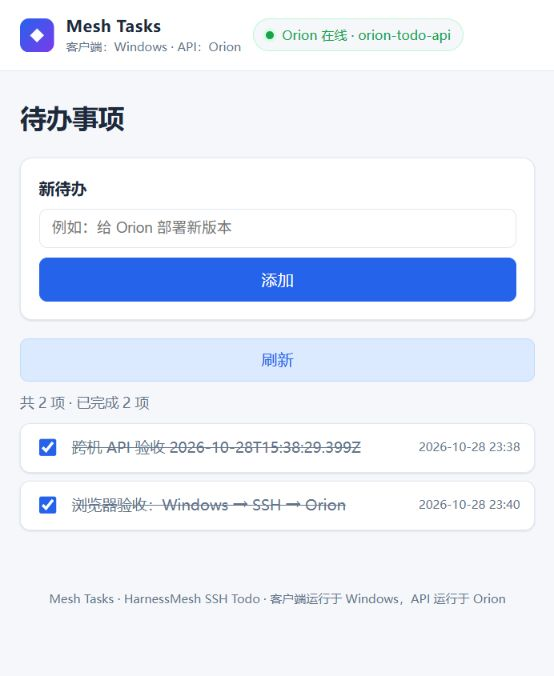
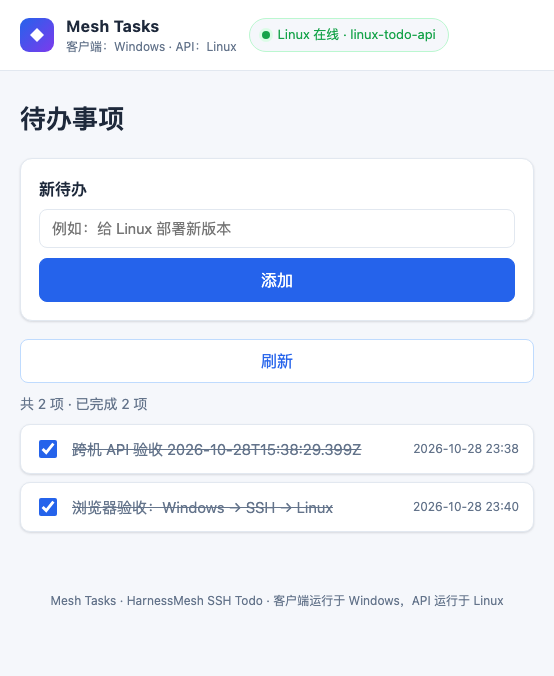
chore: retake the Todo screenshot and ship notices in packages
The Todo example's screenshot still showed the Linux machine's old
name; retake it from the current example code on one computer.

Runtime packages now carry the Apache License 2.0 text and the
third-party notices in NOTICE.txt, keeping the five files that
`hmesh upgrade` checks.

docs/evidence/README.md says what was renamed and that recorded
hashes refer to the original runs; the two example READMEs that quote
hashes point to it. A gateway's model names in a test fixture and in
one record become neutral names.

diff --git a/crates/hmesh-adapters/src/own_login.rs b/crates/hmesh-adapters/src/own_login.rs
@@ -535,7 +535,7 @@ mod tests {
     #[test]
     fn pi_models_by_provider() {
         // The layout of pi 0.83.0 `--list-models`.
-        let real = "provider             model                    context  max-out  thinking  images\nfable-gateway        claude-fable-5-1         200K     32K      yes       yes\ntest-gateway         glm-5.3-highspeed        1M       65.5K    yes       no\ntest-gateway         gpt-5.6-luna             272K     16.4K    no        yes\n";
+        let real = "provider             model                    context  max-out  thinking  images\ngateway-a            model-alpha              200K     32K      yes       yes\ngateway-b            model-beta-fast          1M       65.5K    yes       no\ngateway-b            model-gamma              272K     16.4K    no        yes\n";
         let seen = from_pi_models(real, true, 1);
         assert_eq!(
             (seen.state.as_str(), seen.detail.as_deref()),

diff --git a/docs/implementation-status.md b/docs/implementation-status.md
@@ -1,6 +1,6 @@
 # V0 P0 实施与验收状态
 
-2026-11-26 Pi 真实会话体验验收与修复：用本机 Pi 0.83.0 + pi-acp 0.0.35 + 本机网关的 `deepseek-v4.1-flash-1017` 跑完首消息、读/写工具、审批、模型切换、取消、重启续聊、旧会话列表、错误呈现和用量九项。发现并修掉 HarnessMesh 侧七处：pi 启动横幅混入对话和 `final_text`（改按 `_meta.piAcp.startupInfo` 与横幅结构过滤）、重试文案被当成回答（改记 status 提示）、空回答回合被记成成功（改记 error 与 `last_error`）、取消后工具停在等待（取消回合给未完成工具补终态）、旧会话列表超时（面板/守护进程期限对齐 35/25 秒，失败回退上次列表）、工具标题逐字增长和逐 token 正文产生大量事件（工具按状态/结果/长度变化保留，正文按 512 字节或 150 毫秒合并）、新会话设置下拉可能一直禁用（重建键加入写权限）。面板同时写明 Pi 的工具调用不经过 HarnessMesh 审批、会话内不能调用其他 Agent。随后补上 Pi 的 MCP 桥：检测到本机 `pi-mcp-adapter` 时，用每会话的 `--mcp-config` 把 `hmesh mcp` 交给 Pi（自定义模型服务的隔离 profile 不启用），真机确认模型能发现并调用 `harnessmesh_mesh_send`，用户原有的 figma 等服务仍可用；面板同时提示「取消后重新载入可能重试被取消的命令」。仍保留的上游边界：pi-acp 自己不转发 MCP；取消后重跑需要 pi 在 abort 时补 toolResult；供应商 429 仍由 agent 自己重试。fmt、严格 Clippy 与 workspace 测试通过，面板无 JS 错误；证据见 [Pi 会话记录](evidence/2026-11-26-pi-session-ux.json)，说明见 [本机面板](local-panel.md)。
+2026-11-26 Pi 真实会话体验验收与修复：用本机 Pi 0.83.0 + pi-acp 0.0.35 + 本机网关上的 DeepSeek Flash 模型 跑完首消息、读/写工具、审批、模型切换、取消、重启续聊、旧会话列表、错误呈现和用量九项。发现并修掉 HarnessMesh 侧七处：pi 启动横幅混入对话和 `final_text`（改按 `_meta.piAcp.startupInfo` 与横幅结构过滤）、重试文案被当成回答（改记 status 提示）、空回答回合被记成成功（改记 error 与 `last_error`）、取消后工具停在等待（取消回合给未完成工具补终态）、旧会话列表超时（面板/守护进程期限对齐 35/25 秒，失败回退上次列表）、工具标题逐字增长和逐 token 正文产生大量事件（工具按状态/结果/长度变化保留，正文按 512 字节或 150 毫秒合并）、新会话设置下拉可能一直禁用（重建键加入写权限）。面板同时写明 Pi 的工具调用不经过 HarnessMesh 审批、会话内不能调用其他 Agent。随后补上 Pi 的 MCP 桥：检测到本机 `pi-mcp-adapter` 时，用每会话的 `--mcp-config` 把 `hmesh mcp` 交给 Pi（自定义模型服务的隔离 profile 不启用），真机确认模型能发现并调用 `harnessmesh_mesh_send`，用户原有的 figma 等服务仍可用；面板同时提示「取消后重新载入可能重试被取消的命令」。仍保留的上游边界：pi-acp 自己不转发 MCP；取消后重跑需要 pi 在 abort 时补 toolResult；供应商 429 仍由 agent 自己重试。fmt、严格 Clippy 与 workspace 测试通过，面板无 JS 错误；证据见 [Pi 会话记录](evidence/2026-11-26-pi-session-ux.json)，说明见 [本机面板](local-panel.md)。
 
 2026-11-25 项目和 Agent 已有的会话：schema 10 增加项目表和会话标记。会话可以在本机任意已添加的项目里运行；面板按「电脑 → 项目 → 会话」分组，展开项目时用 ACP `session/list` 现读 agent 自己已有的会话，点开用 `session/load` 回放并接着聊（只保留第一次回放）；项目可共享给配对电脑（只给 ID 和名字，每次启动 agent 前检查仍在共享）；会话可改名、置顶、隐藏和搜索。fixture 端到端测试、面板冒烟和真 claude-agent-acp（伪造记录、不登录、不调模型）检查通过，见 [本机面板说明](local-panel.md) 和 [安全说明](security.md)。
 

diff --git a/examples/ssh-todo/README.md b/examples/ssh-todo/README.md
@@ -30,11 +30,11 @@ pwsh -NoProfile -File .\examples\ssh-todo\start.ps1
 
 Linux 服务端 10 项测试、本机客户端 4 项测试全部通过。独立 HTTP 验收覆盖新增、完成、读取、非法参数、未知 ID 与超大请求；浏览器也实际执行新增、勾选、刷新和页面重载。已核对 Linux JSON 文件，并重启后端确认两条验收待办和完成状态保留。
 
-2026-10-28 的 DSH 生成任务为 `SUCCEEDED`。Pi 的首次任务触发累计输出额度，后续独立任务写完全部服务端文件后触发当时的 64 KiB JSONL 单条记录保护，因此原任务状态仍为 `FAILED`。本目录服务端是这些真实 Pi 产物的原样导出，文件 hash 与 Linux 一致；后续测试通过不代表该原始模型任务成功。
+2026-10-28 的 DSH 生成任务为 `SUCCEEDED`。Pi 的首次任务触发累计输出额度，后续独立任务写完全部服务端文件后触发当时的 64 KiB JSONL 单条记录保护，因此原任务状态仍为 `FAILED`。本目录服务端是这些真实 Pi 产物的导出，导出时文件 hash 与 Linux 一致；2026-11-26 为去掉机器名改过服务名和节点名，现在的文件 hash 与记录不同，见 [docs/evidence/README.md](../../docs/evidence/README.md)；后续测试通过不代表该原始模型任务成功。
 
 2026-10-29 已修复该原生消息限制：Pi 单条最多 4 MiB，内部事件仍限制 64 KiB，正文脱敏后分段保存，累计额度与超时继续生效。新的隔离 Pi/Flash 任务重新生成完整服务端并正常 `SUCCEEDED`，实测最大消息 375,131 字节；新生成服务端 14 项测试通过，原前后端 14 项测试与 HTTP/持久化也重跑通过。原任务终态和本目录原代码保留，新生成文件留在私有回归目录。见 [修复回归证据](../../docs/evidence/latest-pi-output-regression.json) 和 [ADR 0003](../../docs/adr/0003-native-output-limits.md)。
 
-详情见 [验收记录](../../docs/evidence/latest-todo-integration.json) 和 [页面截图](../../docs/evidence/ssh-todo.png)。代码生成用的 Daemon/Mesh 隧道已停止，应用前后端和专用 SSH 应用转发继续运行供试用。
+详情见 [验收记录](../../docs/evidence/latest-todo-integration.json) 和 [页面截图](../../docs/evidence/ssh-todo.png)（2026-11-26 在本机用同一份示例代码重拍）。代码生成用的 Daemon/Mesh 隧道已停止，应用前后端和专用 SSH 应用转发继续运行供试用。
 
 ## 独立运行代码
 

diff --git a/examples/managed-http/README.md b/examples/managed-http/README.md
@@ -8,6 +8,6 @@ node .\examples\managed-http\contract-check.mjs http://127.0.0.1:18081
 
 Run this only against an authorized test instance: it writes test Todos. The endpoint must come from an active `hmesh service connect` lease; the completed acceptance instance has been revoked and stopped.
 
[2 lines of base64/hex data omitted]
 
 See [owner configuration and limits](../../docs/managed-services.md), and the [real acceptance report](../../docs/evidence/latest-managed-services.json). The opt-in controller script that ran it was removed in #6. The first network timeout and early CRUD deadline failures are preserved in the report.

diff --git a/docs/evidence/README.md b/docs/evidence/README.md
@@ -1,0 +1,25 @@
+# Evidence records
+
+**English** | [简体中文](#验收记录)
+
+These files record acceptance runs on real computers. Before the repository was made public, on 2026-11-26, they were edited to remove personal and internal details:
+
+- the computers' Tailnet addresses became `100.80.10.11` and `100.80.20.12`;
+- home directories became `C:/Users/you` and `/home/you`;
+- the Linux computer's name and SSH alias became `Linux` and `linux-host`, so the example service is now `linux-todo-api`;
+- gateway and model names that were not public became generic descriptions.
+
+So a SHA-256 recorded in a file here, or in the docs and examples that cite these runs, refers to the original run's files, not to the edited copies in this repository. `ssh-todo.png` was retaken from the same example code on one computer.
+
+---
+
+## 验收记录
+
+这些文件记录了在真实电脑上跑的验收。2026-11-26 仓库公开前，为去掉个人和内部信息改过：
+
+- 电脑的 Tailnet 地址改成 `100.80.10.11` 和 `100.80.20.12`；
+- 用户目录改成 `C:/Users/you` 和 `/home/you`；
+- Linux 电脑的名字和 SSH 别名改成 `Linux` 和 `linux-host`，示例服务名随之改成 `linux-todo-api`；
+- 不公开的网关名和模型名改成了泛称。
+
+所以这里的文件、以及引用这些验收的文档和示例里记下的 SHA-256，对应的是当时运行的原始文件，不是本仓库里改过的副本。`ssh-todo.png` 是在一台电脑上用同一份示例代码重拍的。
